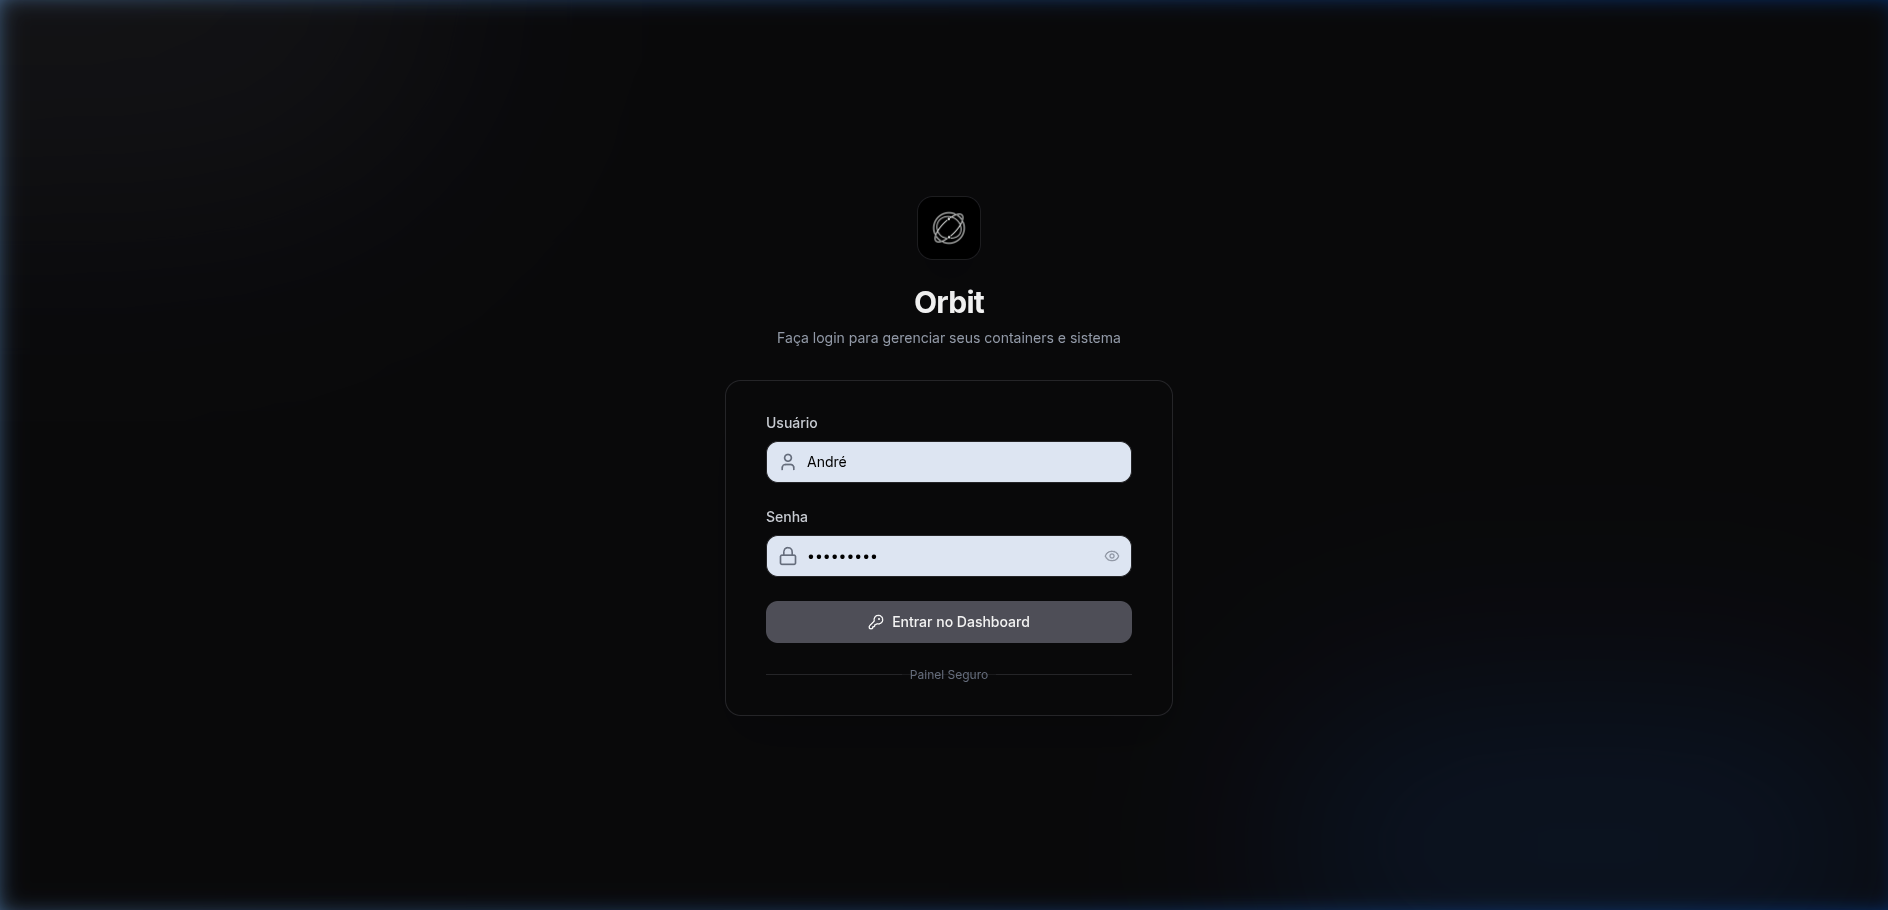
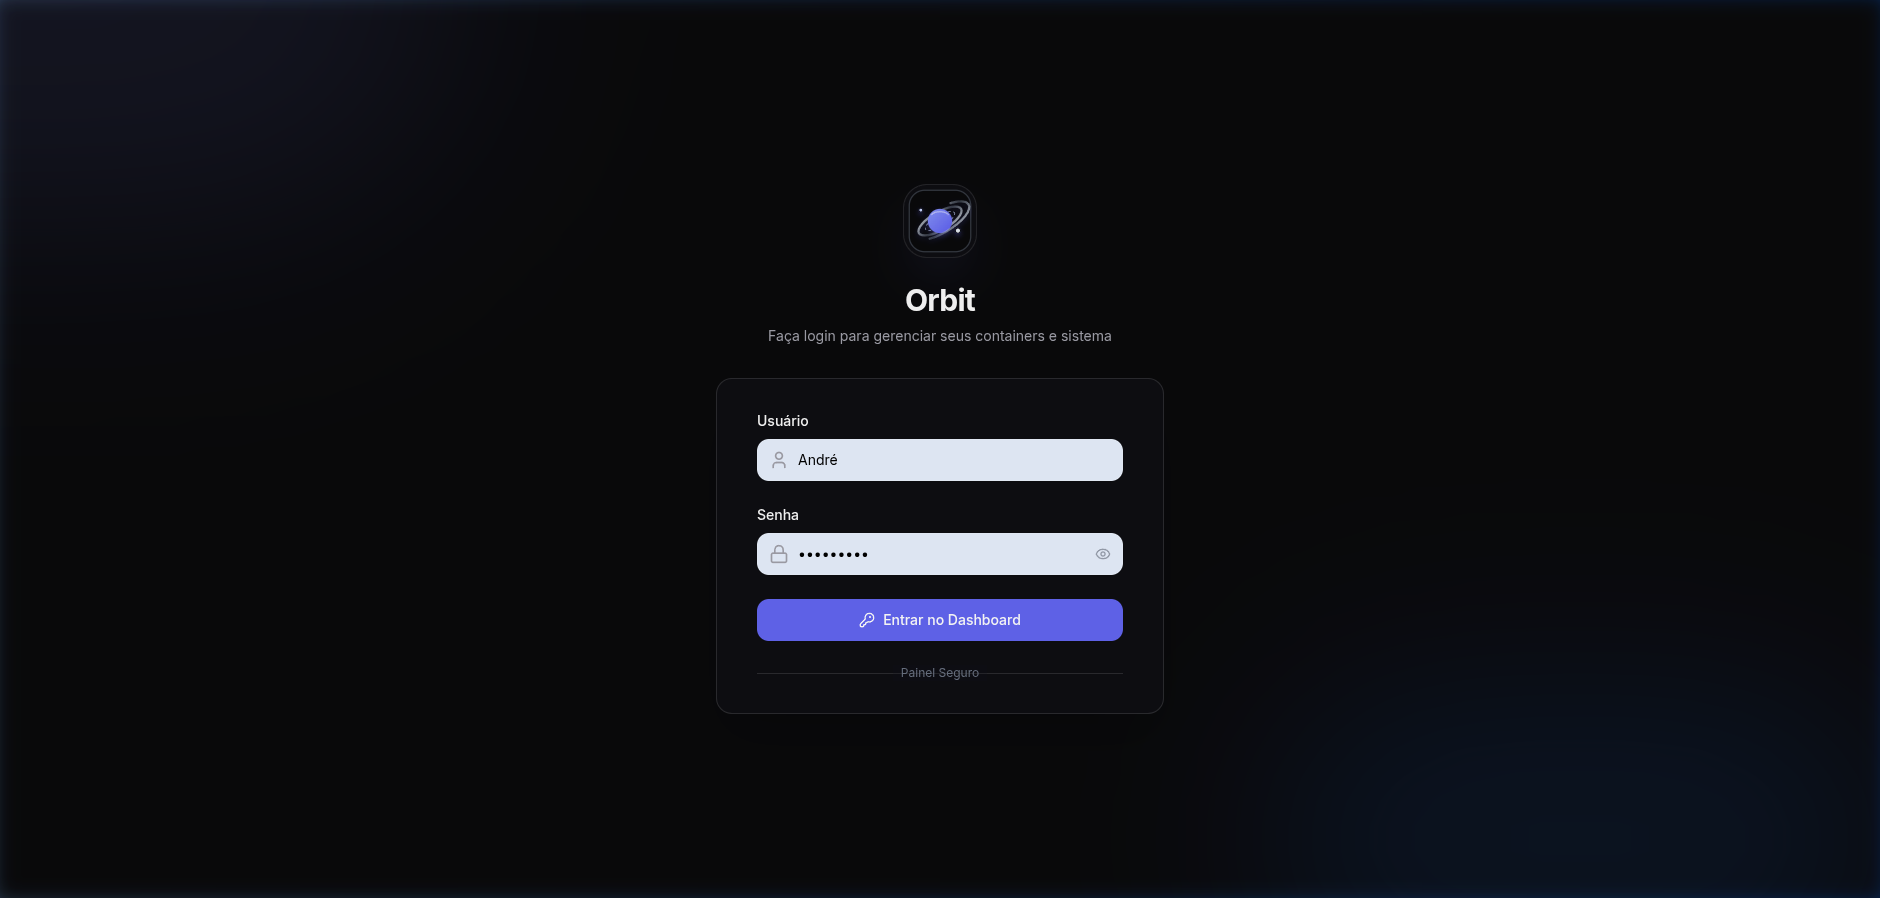
docs: update screenshots, videos and README with latest UI
- Refresh all 7 static screenshots (login, metrics, disk_analyzer,
  file_manager, logs, terminal, themes) captured from live production
  instance at orbit.rasppi.cloud at v2.7.4
- Add new Home Assistant integration screenshot (home_assistant.png)
  showing physical hardware grouping and dynamic room tabs
- Refresh animated WebP recordings (overview, containers, appstore)
  with up-to-date UI including host network telemetry, HA integration,
  batch-update resilience and anti-false-positive update detection
- Add themes.webp: animated loop across all 6 color palettes (Zinc,
  Tokyo Night, Rose, Blue, Green, Catppuccin) with on-screen badge
- Add themes.png: 2x3 side-by-side comparison collage of all palettes
- Remove Chromium DevTools blue-border artifacts from all images and
  video frames (20px horizontal / 18px vertical crop per asset)
- Add Docker Hub badge (victorandre280/orbit-dashboard) to README header
- Add Home Assistant entry to visual gallery table in README
- Update themes entry to use animated themes.webp for dynamic demo

diff --git a/README.md b/README.md
@@ -5,7 +5,8 @@
 **Painel de gerenciamento de contêineres Docker, orquestração de stacks Compose e telemetria de hardware para servidores locais e ambientes homelab.**
 
 [![CI Pipeline](https://github.com/Andrevictor20/orbit-dashboard/actions/workflows/ci.yml/badge.svg)](https://github.com/Andrevictor20/orbit-dashboard/actions/workflows/ci.yml)
-[![Docker Image](https://img.shields.io/badge/Docker-Multi--Arch%20(amd64%20%7C%20arm64)-blue?logo=docker)](https://github.com/Andrevictor20/orbit-dashboard/pkgs/container/orbit-dashboard)
+[![Docker Image](https://img.shields.io/badge/GHCR-Multi--Arch%20(amd64%20%7C%20arm64)-blue?logo=docker)](https://github.com/Andrevictor20/orbit-dashboard/pkgs/container/orbit-dashboard)
+[![Docker Hub](https://img.shields.io/badge/Docker%20Hub-victorandre280%2Forbit--dashboard-2496ED?logo=docker)](https://hub.docker.com/r/victorandre280/orbit-dashboard)
 [![Backend](https://img.shields.io/badge/Backend-Rust%20%2B%20Axum-orange?logo=rust)](https://www.rust-lang.org/)
 [![Frontend](https://img.shields.io/badge/Frontend-React%2019%20%2B%20Vite%208-61DAFB?logo=react)](https://react.dev/)
 [![Tailwind CSS](https://img.shields.io/badge/Style-Tailwind%20CSS%20v4-38B2AC?logo=tailwindcss)](https://tailwindcss.com/)
@@ -51,7 +52,8 @@ Instalação orientada a manifestos declarativos, com validação de portas e vo
 | **Terminal Web Integrado (XTerm.js)** | ![Terminal](./docs/images/terminal.png) |
 | **Autenticação Local Segura (Argon2id)** | ![Login](./docs/images/login.png) |
 | **Gerenciador de Arquivos do Host** | ![File Manager](./docs/images/file_manager.png) |
-| **Paletas Visuais e Alto Contraste** | ![Themes](./docs/images/themes.png) |
+| **Paletas Visuais e Alto Contraste (Transição Dinâmica)** | ![Themes](./docs/videos/themes.webp) |
+| **Integração com Home Assistant** | ![Home Assistant](./docs/images/home_assistant.png) |
 
 </details>
 
